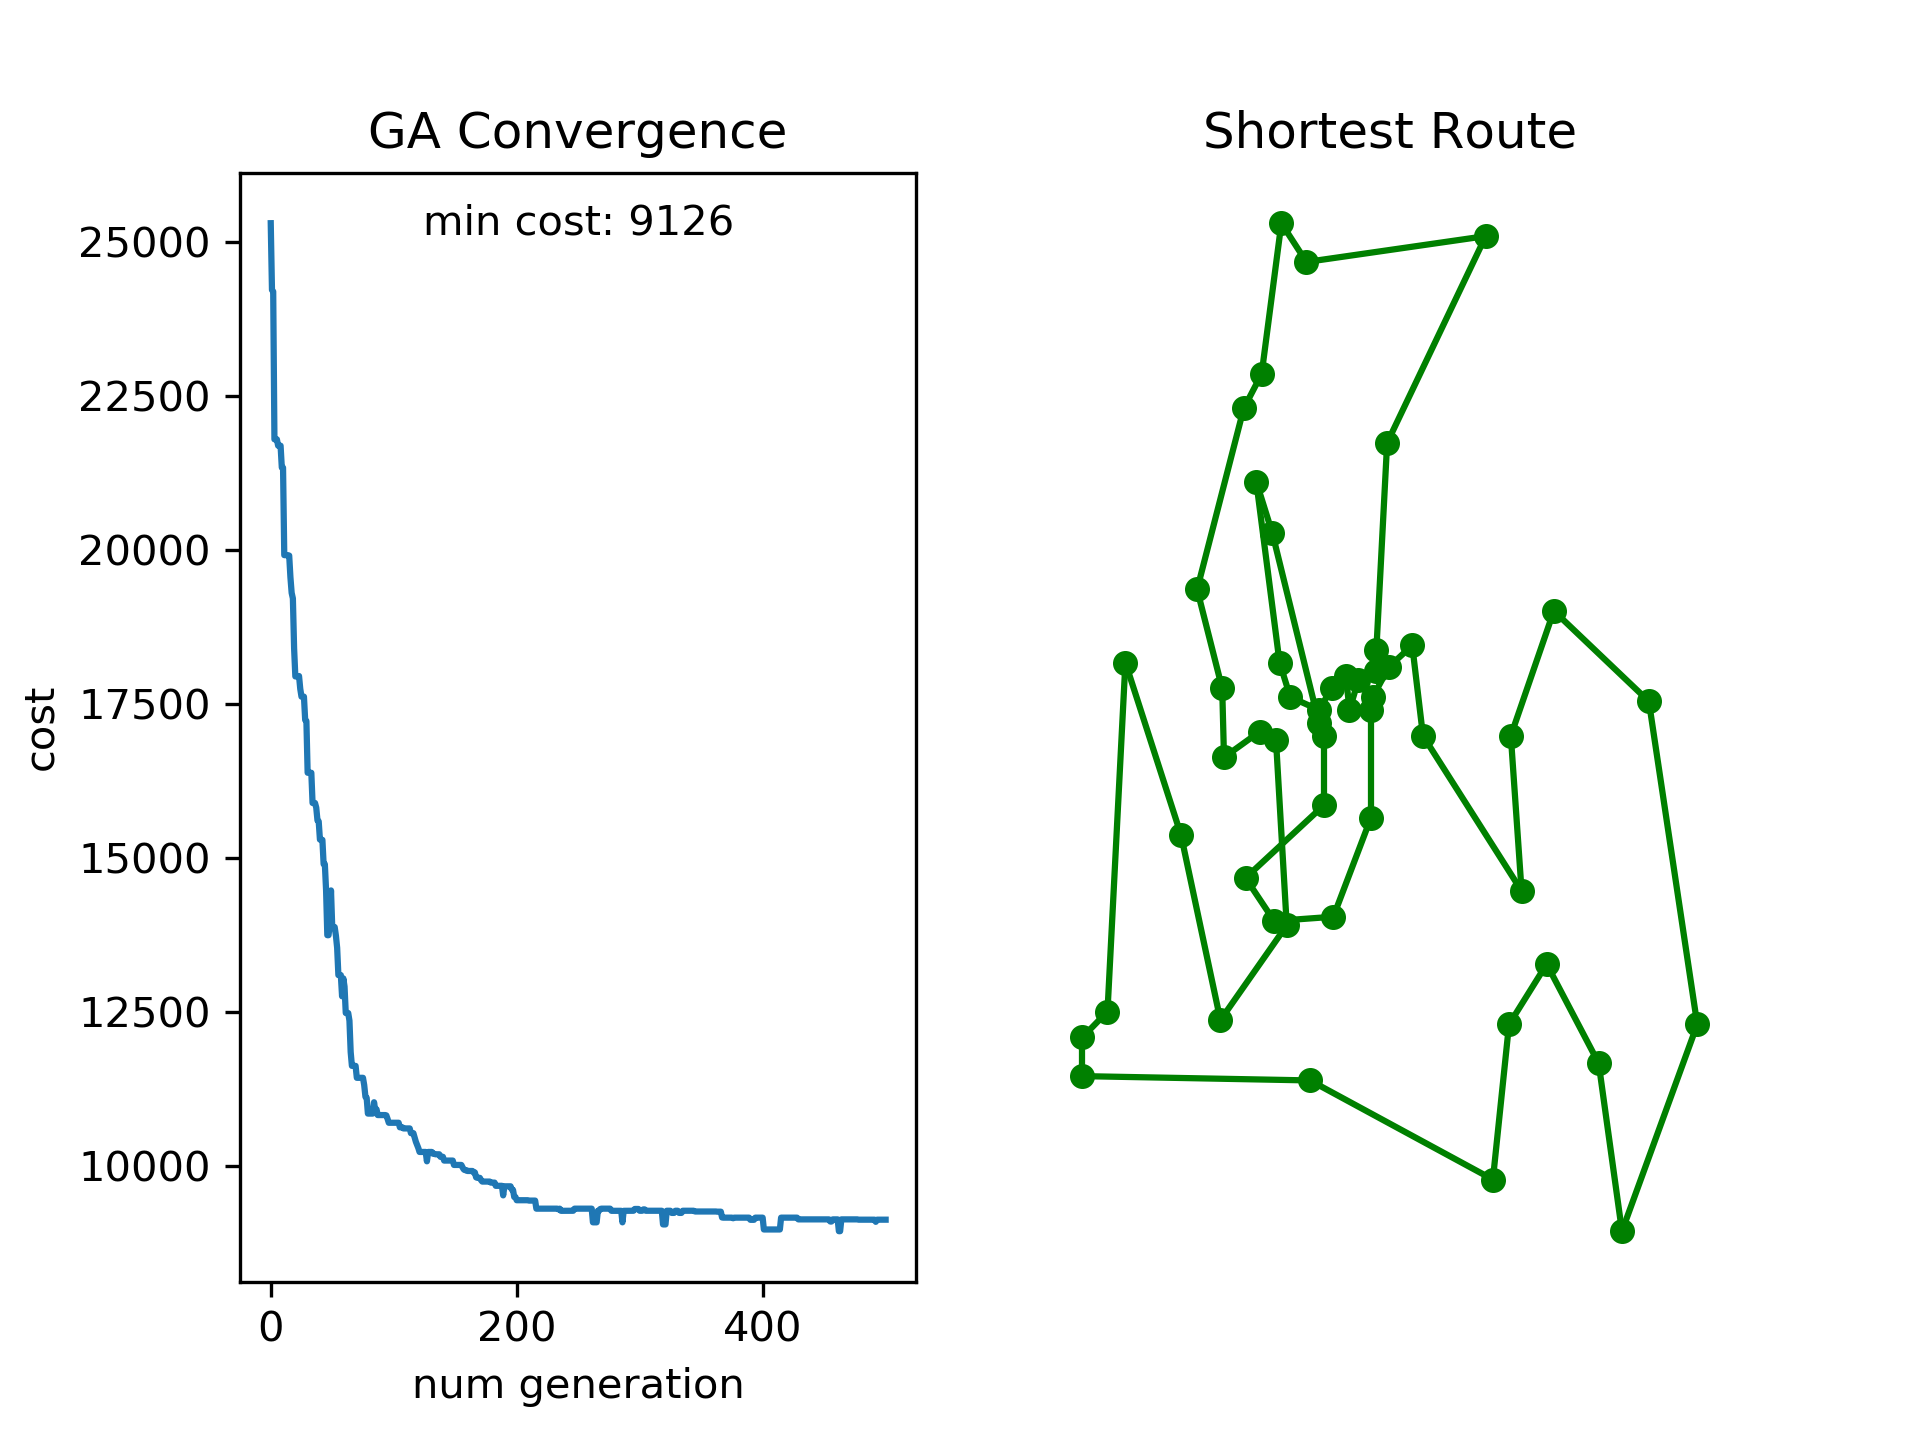
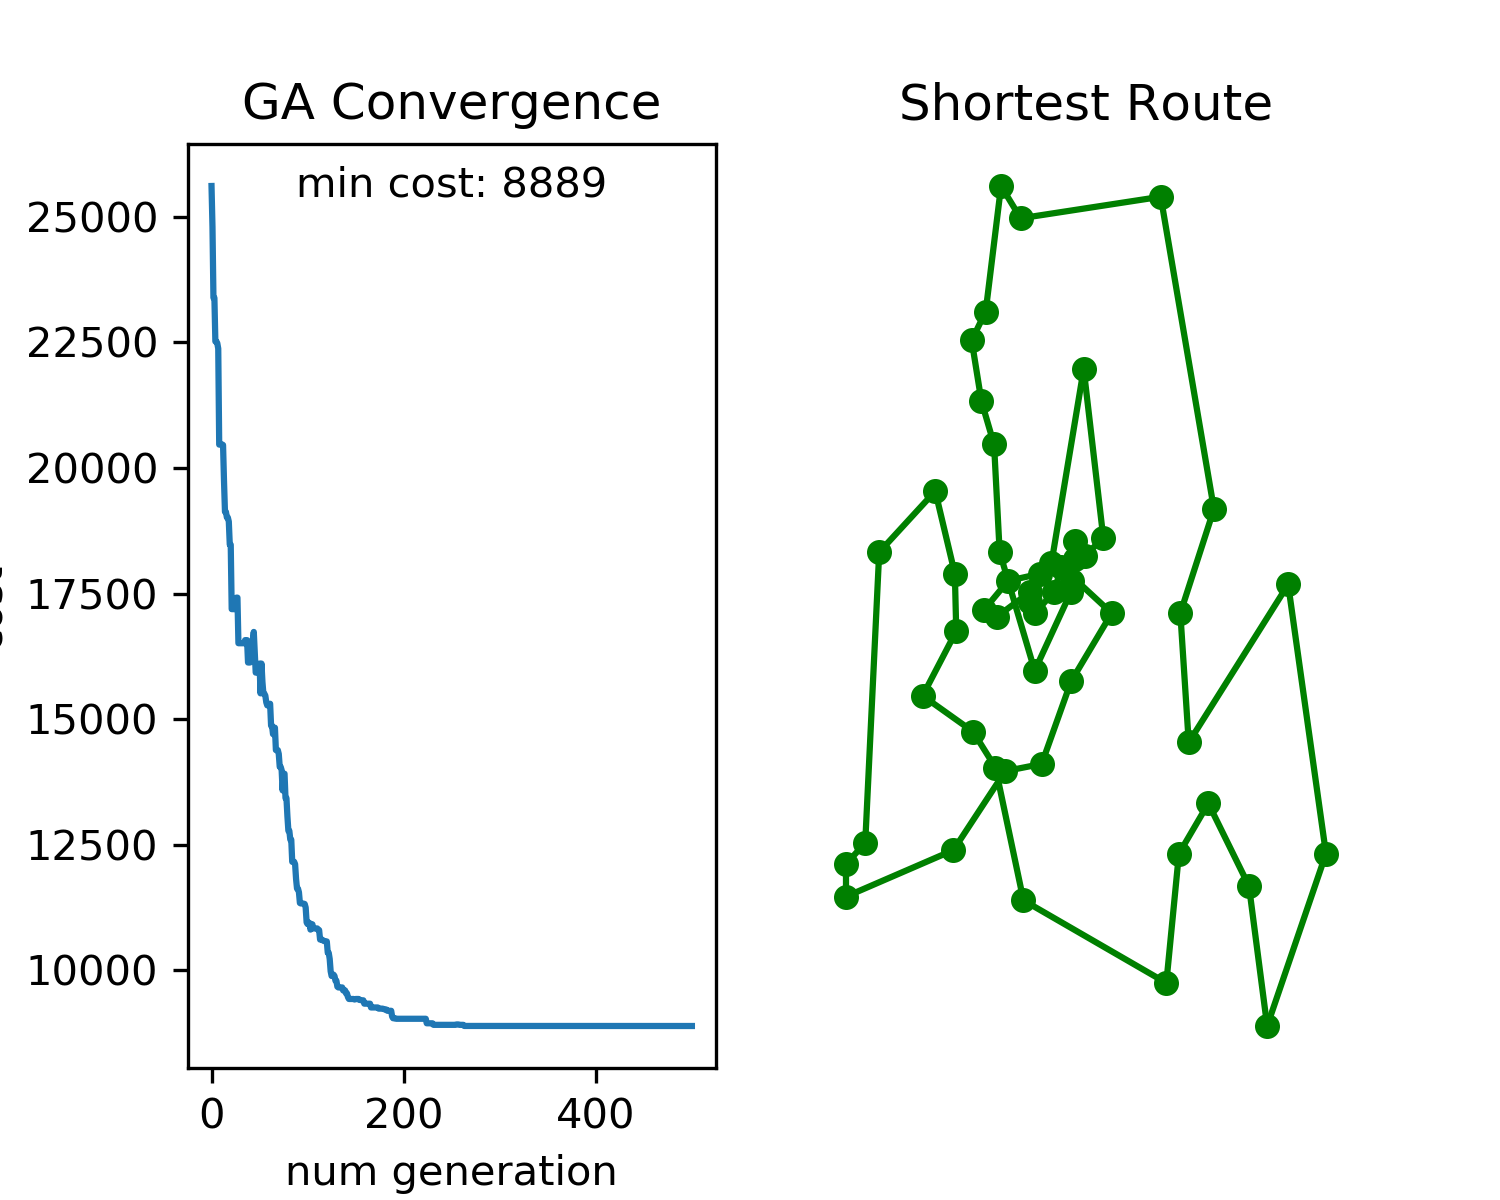
fix some bug.

diff --git a/utils.py b/utils.py
@@ -13,6 +13,9 @@ def get_genes_from(fn):
 
 
 def plot(costs, individual, save_to=None):
+    plt.rcParams['figure.figsize'] = (5.0, 4.0)  # set default size of plots
+    plt.rcParams['image.interpolation'] = 'nearest'
+    plt.rcParams['image.cmap'] = 'gray'
     plt.figure(1)
     plt.subplot(121)
     plot_ga_convergence(costs)
@@ -30,7 +33,7 @@ def plot_ga_convergence(costs):
     plt.title("GA Convergence")
     plt.xlabel('num generation')
     plt.ylabel('cost')
-    plt.text(x[len(x) // 2], costs[0], 'min cost: {}'.format(costs[-1]), ha='center', va='center')
+    plt.text(x[len(x) // 2], costs[0], 'min cost: {}'.format(min(costs)), ha='center', va='center')
     plt.plot(x, costs, '-')
 
 

diff --git a/tsp_ga.py b/tsp_ga.py
@@ -99,7 +99,7 @@ class SimpleGeneticAlgorithm(object):
         if self.verbose:
             print(
                 "-- TSP-GA -- Evolution finished after {} generations in {} s".format(self.num_generation, total_time))
-            print("-- TSP-GA -- Minimum travelling cost {} KM".format(self.history['min_cost']))
+            print("-- TSP-GA -- Minimum travelling cost {}".format(self.history['min_cost']))
 
         self.history['generations'] = self.num_generation
         self.history['total_time'] = total_time
